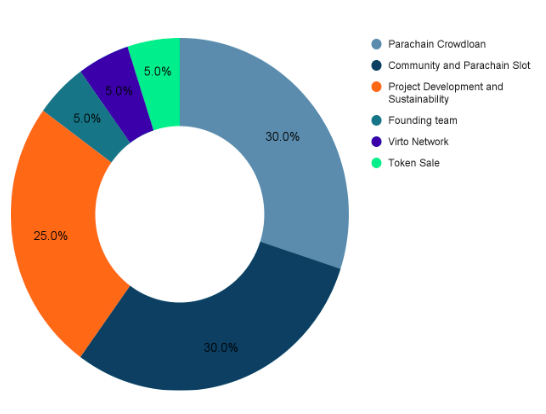
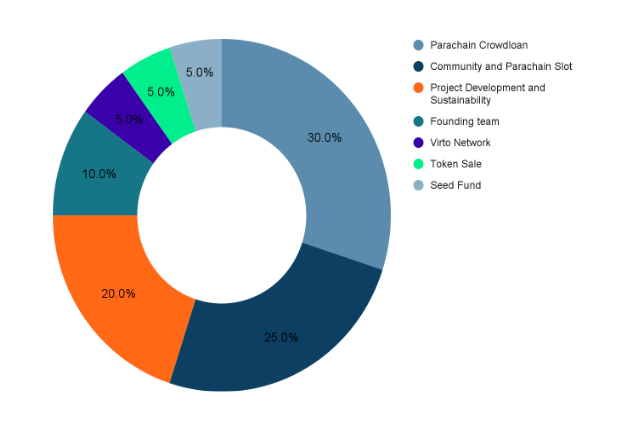
change new token distribution share (#9)

diff --git a/docs/whitepaper.md b/docs/whitepaper.md
@@ -268,13 +268,14 @@ stored to be distributed for:
   Kusama parachain auction for an initial 48-week year parachain slot. Upon
   launch of the Virto parachain, these tokens will be distributed immediately
   to the crowdloan contributors
-- Community and Parachain Slot: 30% to secure future Kusama parachain slot
+- Community and Parachain Slot: 25% to secure future Kusama parachain slot
   leases and other community initiatives
-- Project Development and Sustainability: 25% to support projects, ecosystem
+- Project Development and Sustainability: 20% to support projects, ecosystem
   development, maintenance and other network needs.
-- Founding team: 5% to reward founders and core development team
+- Founding team: 10% to reward founders and core development team
 - Virto Network: 5% to secure and sustain Virto Network 
 - Token Sale: 5% to pre-sell to early backers and contributors
+- Seed Fund: 5% to reward early backers and investors
 
 ![marketplace token distribution](marketplace_token_distribution.png)
 
